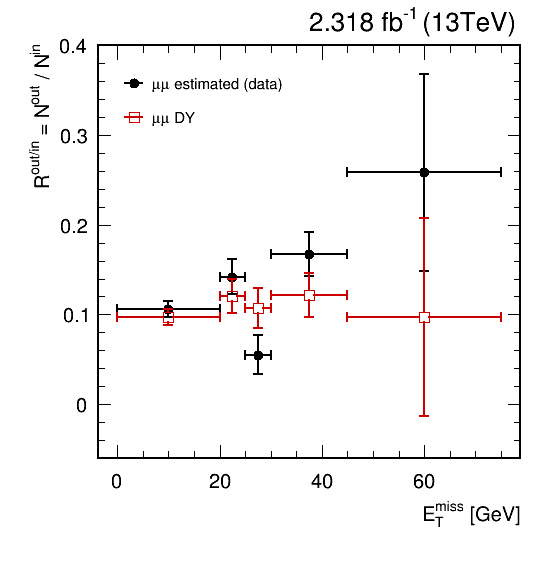
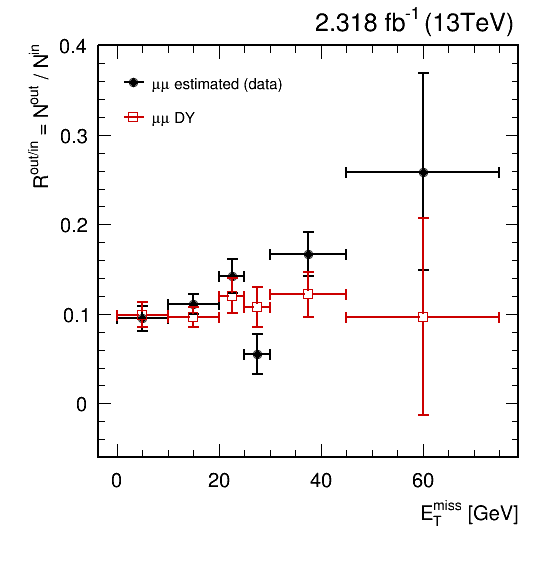
Minor changes

diff --git a/datadriven/getDYScale.C b/datadriven/getDYScale.C
@@ -6,10 +6,10 @@
 const float   zmin =  76;  // [GeV]
 const float   zmax = 106;  // [GeV]
 
-const int     nmetcut = 6;
+const int     nmetcut = 7;
 
-const float   metcut [nmetcut] = {-1, 20, 25, 30, 45, -1};  // [GeV]
-const float   metdraw[nmetcut] = { 0, 20, 25, 30, 45, 75};  // [GeV]
+const float   metcut [nmetcut] = {-1, 10, 20, 25, 30, 45, -1};  // [GeV]
+const float   metdraw[nmetcut] = { 0, 10, 20, 25, 30, 45, 75};  // [GeV]
 
 const bool    includeVZ    = true;
 const bool    printResults = true;
